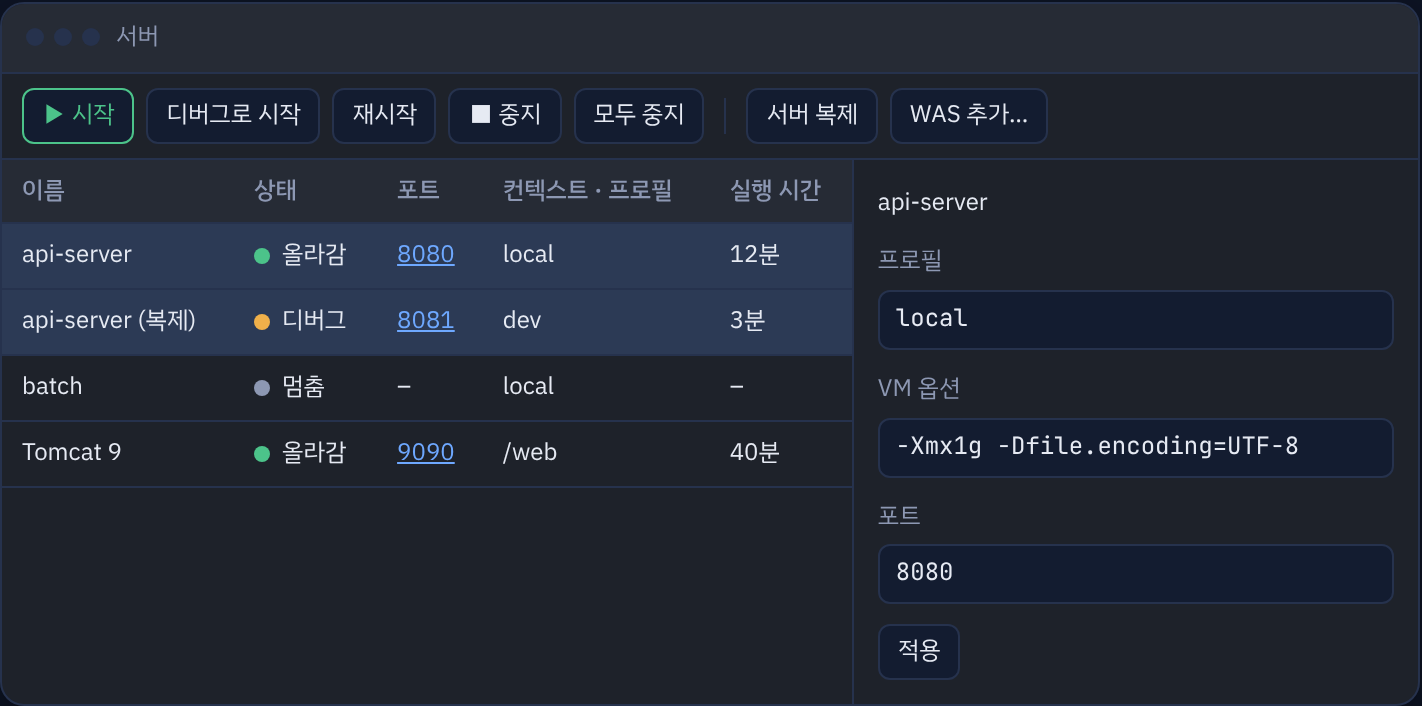
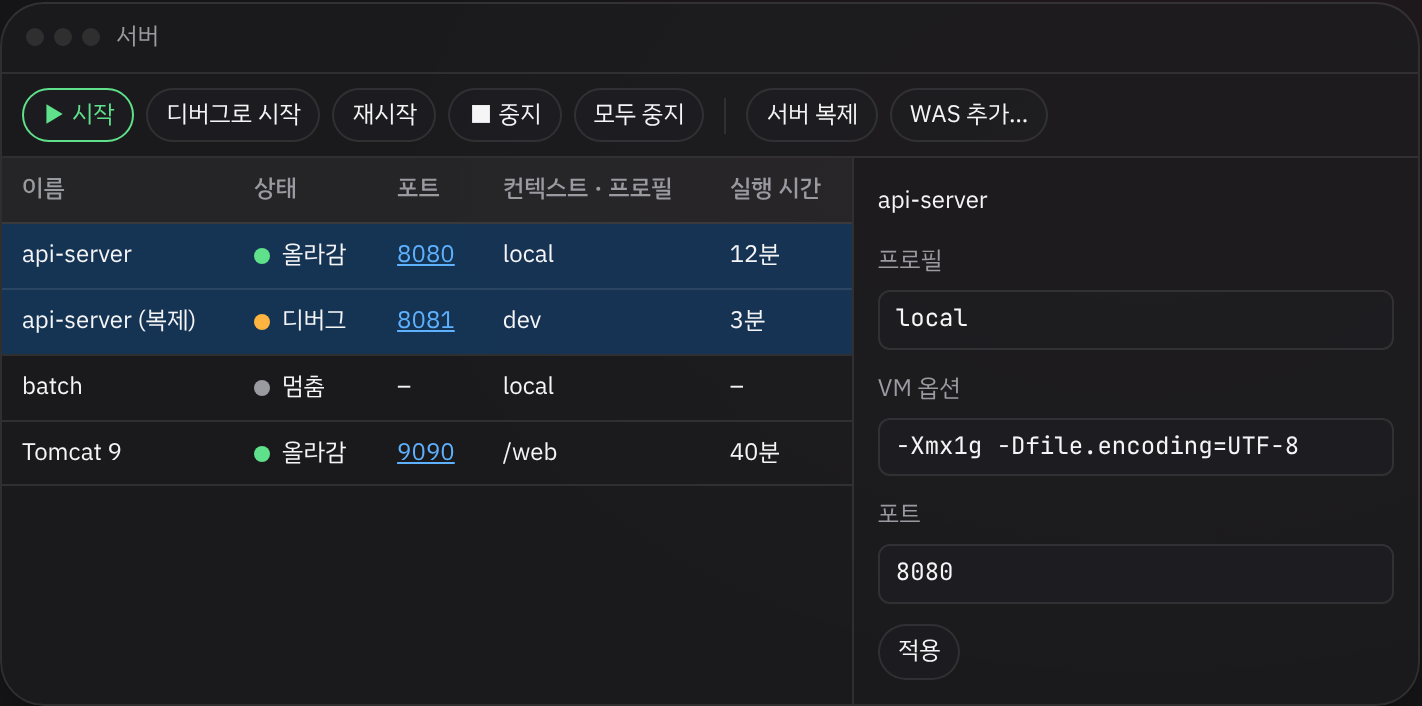
README: 유리 디자인 머리 그림, 화면 모형 7장 새 디자인으로 다시 찍음
Claude-Session: https://claude.ai/code/session_01KzaxsRPi1J1n1e5Zkcq5Dk

diff --git a/수정내역.md b/수정내역.md
@@ -10,6 +10,7 @@
   - 강조색 빨강(#d92a3c) → 분홍(#ff375f, 밝게는 #d70f45). 목차는 떠 있는 알약 막대, 칩 · 단추도 알약 모양.
   - 판 모서리 18~22px, 안내 상자는 왼쪽 선 대신 색 점. 글꼴 Pretendard(없으면 IBM Plex Sans KR).
   - 기존 CSS 는 두고 `</style>` 앞에 덮는 규칙만 붙였습니다. 1700 · 1100 · 390 폭에서 가로 넘침 없음.
+- README: 맨 위에 유리 디자인 머리 그림(docs/img/banner.png)을 넣고, 화면 모형 7장을 새 디자인으로 다시 찍었습니다. README 글은 그대로입니다.
 
 ## 2026-10-21 — 빌드 1033: 속도 개선, 콘솔 쿼리 정렬 · log4jdbc, 프로젝트 창 F5 · 바뀐 폴더 색, 동기화 창 정리, 서버 중지 10초 강제 종료
 

diff --git a/README.md b/README.md
@@ -1,5 +1,7 @@
 # EI IDE
 
+![EI IDE](docs/img/banner.png)
+
 이클립스에 익숙한 사람을 위한 자바 개발 도구입니다. IntelliJ IDEA Community 2026.2.3 을 바탕으로, 이클립스의 서버 창 · Synchronize · 단축키 흐름을 얹고 쓰지 않는 기능은 덜어 냈습니다. 개인 학습용 프로젝트입니다.
 
 **[사용 설명서](https://raw.githack.com/guraking/ei-ide/main/docs/index.html)** · **[수정 내역](수정내역.md)** · **[내려받기](https://github.com/guraking/ei-ide/releases)**
